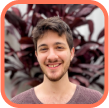
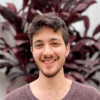
[UPDATE] Master: Added and finished logic.

diff --git a/src/app/components/projects/projects.component.ts b/src/app/components/projects/projects.component.ts
@@ -15,28 +15,25 @@ export class ProjectsComponent implements OnInit {
 
   projects: Project[] = [
     {
-      // img: 'assets/img/1.png',
-      title: 'Project 1',
+      img: 'assets/portfolio.png',
+      title: 'Personal UI UX portfolio',
       platform: 'Behance',
-      description: 'UI/UX Redisgn and stuff, bla bla bla bla bla bla bla bla bla bla bla bla',
-      url: 'https://www.google.com',
-      technologies: ['behance', 'instagram', 'linkedin']
+      url: 'https://www.behance.net/gallery/155568261/UI-UX-designer-web-portfolio-design-process',
+      technologies: []
     },
     {
-      // img: 'assets/img/2.png',
-      title: 'Project 2',
+      img: 'assets/behance-redesign.png',
+      title: 'Behance redesign',
       platform: 'Behance',
-      description: 'UI/UX Redisgn and stuff, bla bla bla bla bla bla bla bla bla bla bla bla',
-      url: 'https://www.google.com',
-      technologies: ['behance', 'instagram', 'linkedin']
+      url: 'https://www.behance.net/gallery/140037319/Rediseno-Behance-Caso-de-estudio-UXUI-2022',
+      technologies: []
     },
     {
-      // img: 'assets/img/3.png',
-      title: 'Project 3',
+      img: 'assets/dedo-design.png',
+      title: 'Dedo design',
       platform: 'Behance',
-      description: 'UI/UX Redisgn and stuff, bla bla bla bla bla bla bla bla bla bla bla bla',
-      url: 'https://www.google.com',
-      technologies: ['behance', 'instagram', 'linkedin']
+      url: 'https://www.behance.net/gallery/99856657/DEDO-ejercicio-UXUI',
+      technologies: []
     }
   ]
 

diff --git a/src/app/components/nav/nav.component.html b/src/app/components/nav/nav.component.html
@@ -31,13 +31,13 @@
   <!-- ! Links -->
   <div class="nav__links">
     <div class="nav__links__link nav__links__link--large">
-      <a class="button button--primary" href="assets.resume.pdf" target="_blank">
+      <a title="My Resume" class="button button--primary" href="assets.resume.pdf" target="_blank">
         <img src="assets/download.svg" alt="Download Resume">
         <span>My Resume</span>
       </a>
     </div>
     <div class="nav__links__link nav__links__link">
-      <a class="button button--secondary" href="mailto:eze@escandarani.com.ar">Contact me</a>
+      <a title="Contact me" class="button button--secondary" href="mailto:eze@escandarani.com.ar">Contact me</a>
     </div>
   </div>
   <!-- ! Text -->

diff --git a/src/app/components/home/home.component.ts b/src/app/components/home/home.component.ts
@@ -1,3 +1,5 @@
+import { Observable } from 'rxjs';
+import { StateService } from './../../services/state.service';
 import { Component, OnInit } from '@angular/core';
 
 @Component({
@@ -7,7 +9,11 @@ import { Component, OnInit } from '@angular/core';
 })
 export class HomeComponent implements OnInit {
 
-  constructor() { }
+  mode$: Observable<string>;
+
+  constructor(private stateService: StateService) {
+    this.mode$ = this.stateService.mode$;
+  }
 
   ngOnInit(): void {
   }

diff --git a/src/index.html b/src/index.html
@@ -2,7 +2,9 @@
 <html lang="en">
 <head>
   <meta charset="utf-8">
-  <title>EzePortfolio</title>
+  <title>Ezequiel Escandarani | UX UI Designer</title>
+  <meta property="description" content="Ezequiel Escandarani | UX UI Designer">
+  <meta property="og:title" property="og:title" content="Ezequiel Escandarani">
   <base href="/">
   <meta name="viewport" content="width=device-width, initial-scale=1">
   <link rel="icon" type="image/x-icon" href="favicon.ico">

diff --git a/src/app/components/home/home.component.html b/src/app/components/home/home.component.html
@@ -1,4 +1,4 @@
-<div class="nav-block"></div>
+<div class="nav-block" [ngClass]="{'nav-day': (mode$ | async) === 'day'}"></div>
 <div class="home">
   <app-nav></app-nav>
   <app-tabs></app-tabs>

diff --git a/src/app/interfaces/project.ts b/src/app/interfaces/project.ts
@@ -2,7 +2,7 @@ export interface Project {
   img?: string;
   title: string;
   platform: string;
-  description: string;
+  description?: string;
   url: string;
   technologies: string[];
 }

diff --git a/src/app/components/nav/nav.component.scss b/src/app/components/nav/nav.component.scss
@@ -34,6 +34,7 @@
     border-radius: 16px;
     margin: 0 auto;
     margin-bottom: 12px;
+    border: 4px solid var(--orange);
     overflow: hidden;
 
     img {

diff --git a/src/app/components/home/home.component.scss b/src/app/components/home/home.component.scss
@@ -5,6 +5,7 @@
   height: 100vh;
   width: 40%;
   background-color: var(--light-black);
+  transition: all 0.2s ease-in-out;
 }
 
 .home {
